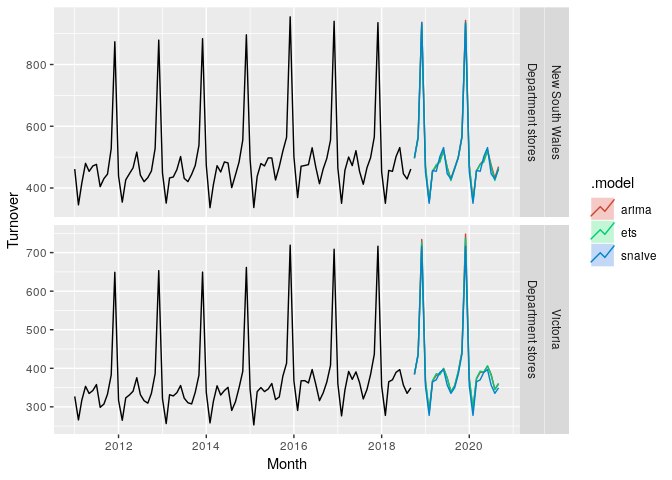
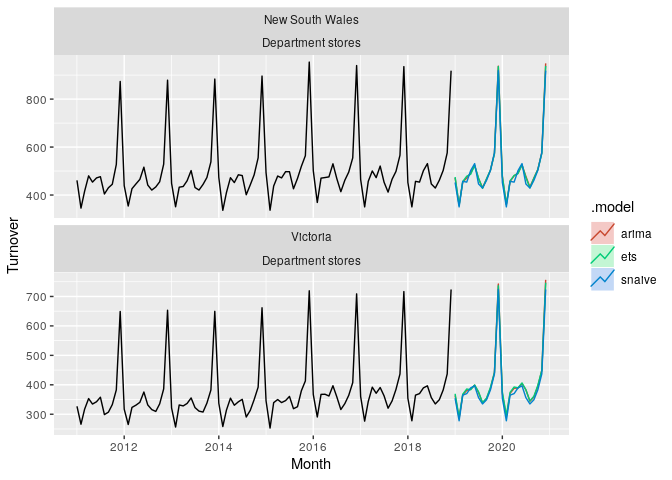
Updated fable README
Resolves #113

diff --git a/README.md b/README.md
@@ -12,10 +12,12 @@ status](https://codecov.io/gh/tidyverts/fable/branch/master/graph/badge.svg)](ht
 [![CRAN\_Status\_Badge](http://www.r-pkg.org/badges/version/fable)](https://cran.r-project.org/package=fable)
 [![lifecycle](https://img.shields.io/badge/lifecycle-experimental-orange.svg)](https://www.tidyverse.org/lifecycle/#experimental)
 
-The R package *fable* provides methods and tools for displaying and
-analysing univariate time series forecasts including exponential
-smoothing via state space models and automatic ARIMA modelling. Data,
-model and forecast objects are all stored in a tidy format.
+The R package *fable* provides a collection of commonly used univariate
+and multivariate time series forecasting models including exponential
+smoothing via state space models and automatic ARIMA modelling. These
+models work within the fable framework, which provides the tools to
+evaluate, visualise, and combine models in a workflow consistent with
+the tidyverse.
 
 ## Installation
 
@@ -47,12 +49,29 @@ aus_retail %>%
     arima = ARIMA(log(Turnover)),
     snaive = SNAIVE(Turnover)
   ) %>%
-  forecast %>% 
+  forecast(h = "2 years") %>% 
   autoplot(filter(aus_retail, year(Month) > 2010), level = NULL)
 ```
 
 <img src="man/figures/README-example-1.png" width="100%" />
 
-You can read more about the functionality of this package and the ideas
-behind it here:
-<https://tidyverts.github.io/tidy-forecasting-principles/>
+## Learning to forecast with fable
+
+  - The pkgdown site describes all models provided by fable, and how
+    they are used: <http://fable.tidyverts.org/>
+  - The forecasting principles and practices online textbook provides an
+    introduction to time series forecasting using fable:
+    <https://otexts.com/fpp3/> (WIP)
+  - A quick start functionality guide can be found here:
+    <https://tidyverts.github.io/tidy-forecasting-principles/> (WIP)
+
+## Getting help
+
+  - Questions about forecasting can be asked on [Cross
+    Validated](http://stats.stackexchange.com/tags/forecasting).
+
+  - Common questions about the fable package are often found on [Stack
+    Overflow](http://stackoverflow.com/tags/fable+r). You can use this
+    to ask for help if the question isn’t already answered. A [minimally
+    reproducible example](https://www.tidyverse.org/help/) that
+    describes your issue is the best way to ask for help\!
